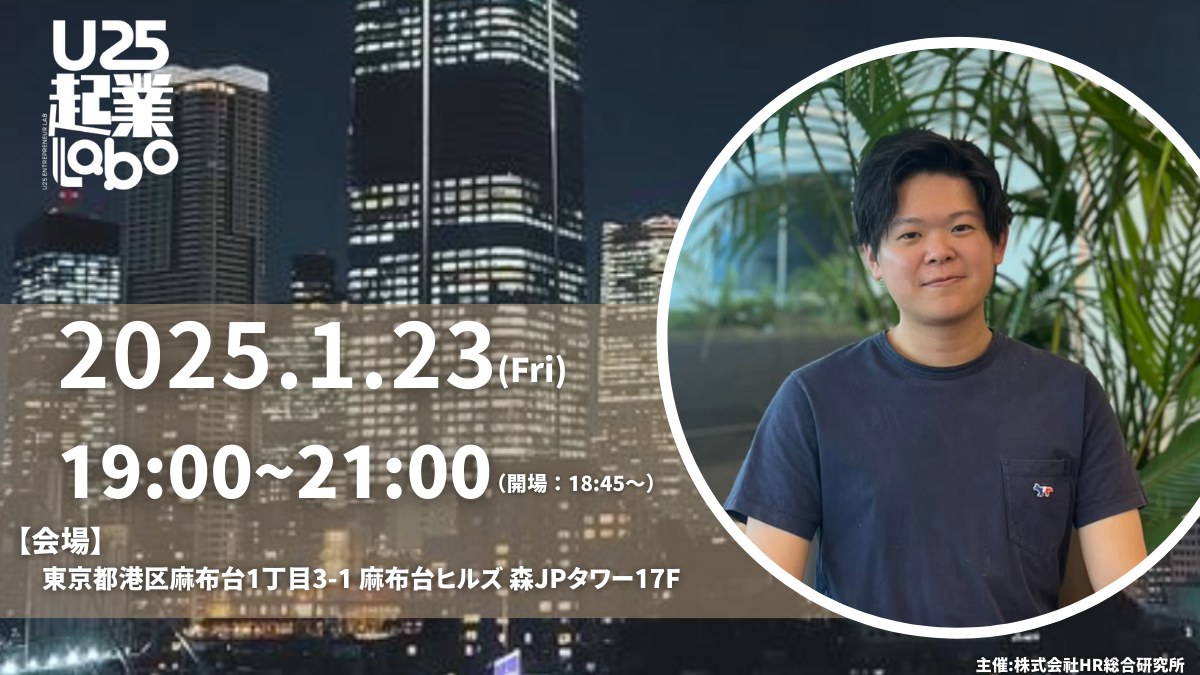
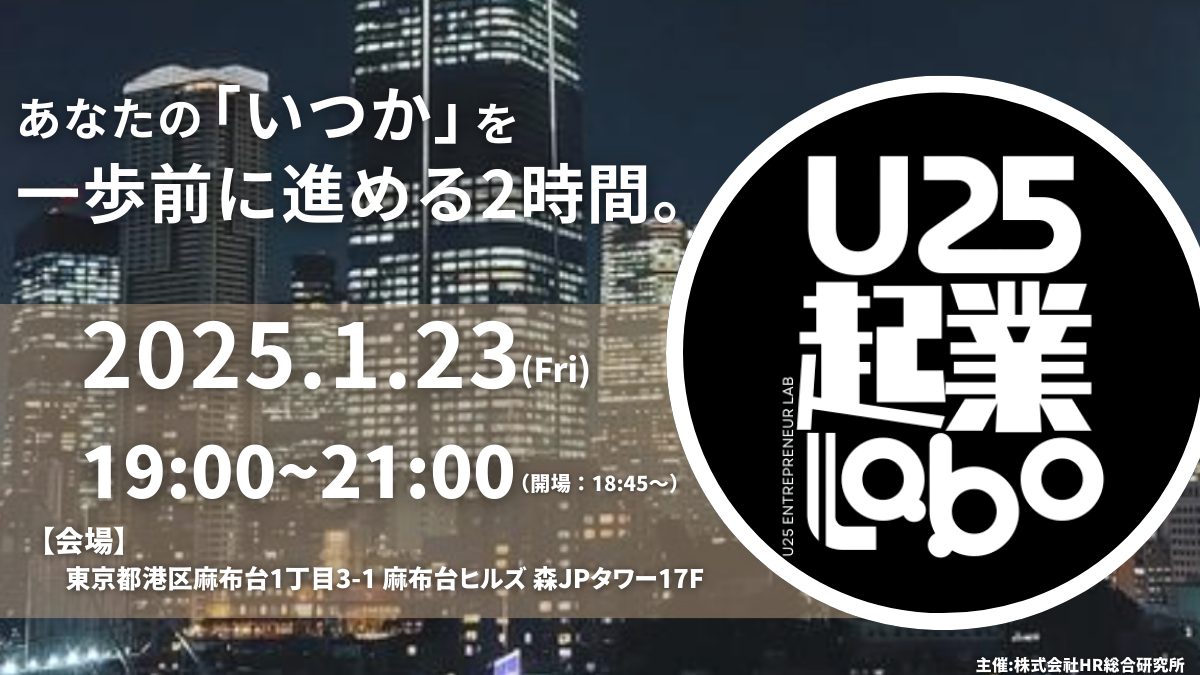
Add files via upload

diff --git a/index.html b/index.html
@@ -31,13 +31,13 @@
         </div>
 
         <h1 class="hero__title">
-          麻布台ヒルズで<br>U25起業ラボを“体験”する2時間
+          麻布台ヒルズで<br> あなたの「いつか」を、一歩だけ前に進める2時間。
         </h1>
 
         <p class="hero__lead hero-anim__lead">
           現役学生起業家のリアルなストーリーと、<br>
           同世代とのディスカッション・ワークショップ。<br>
-          「いつか起業したい」を、今日一歩だけ前に進める夜。
+
         </p>
 
         <div class="hero__badges hero-anim__badges">
